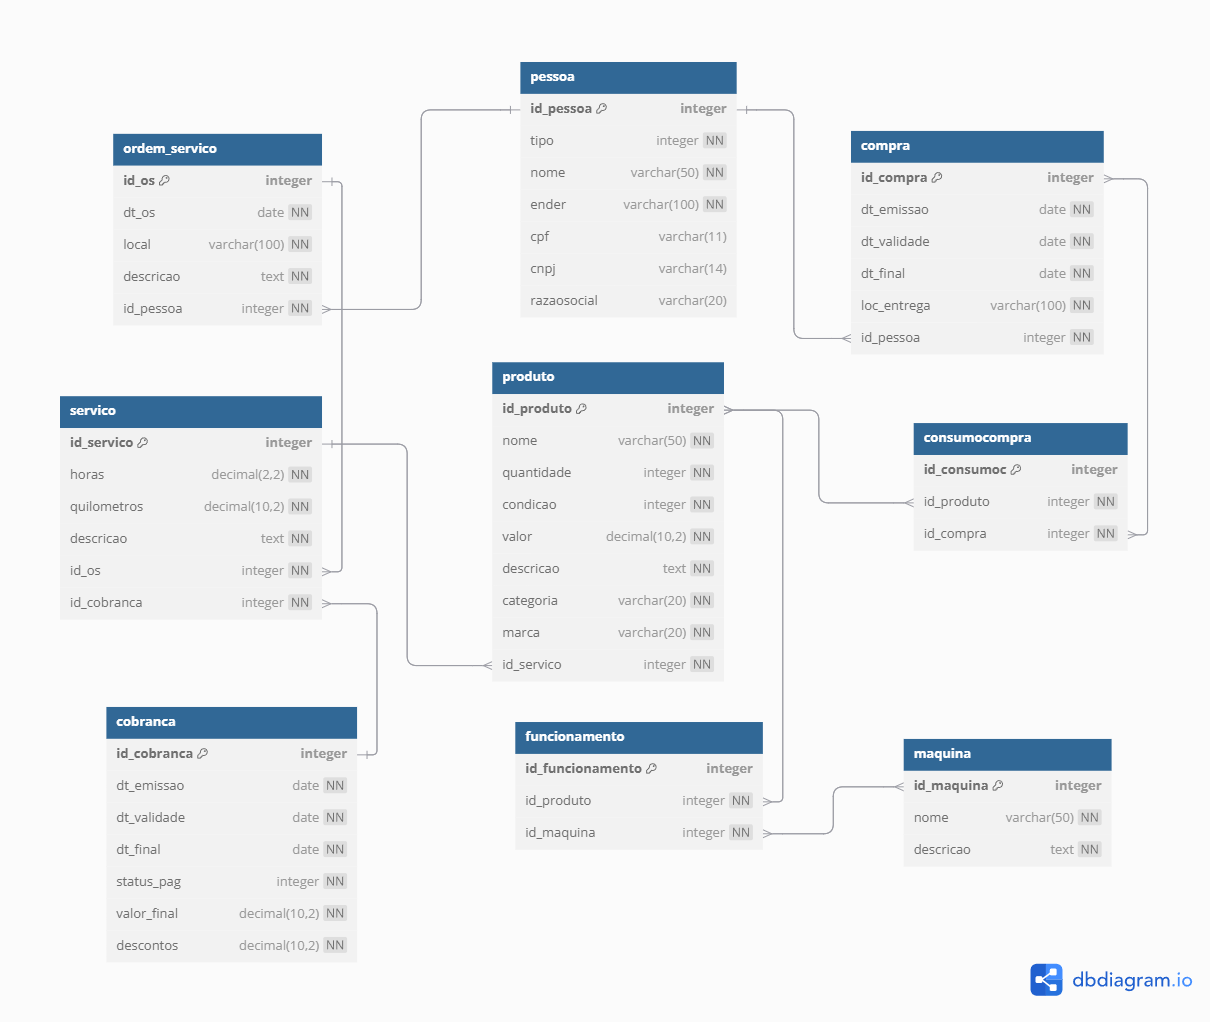
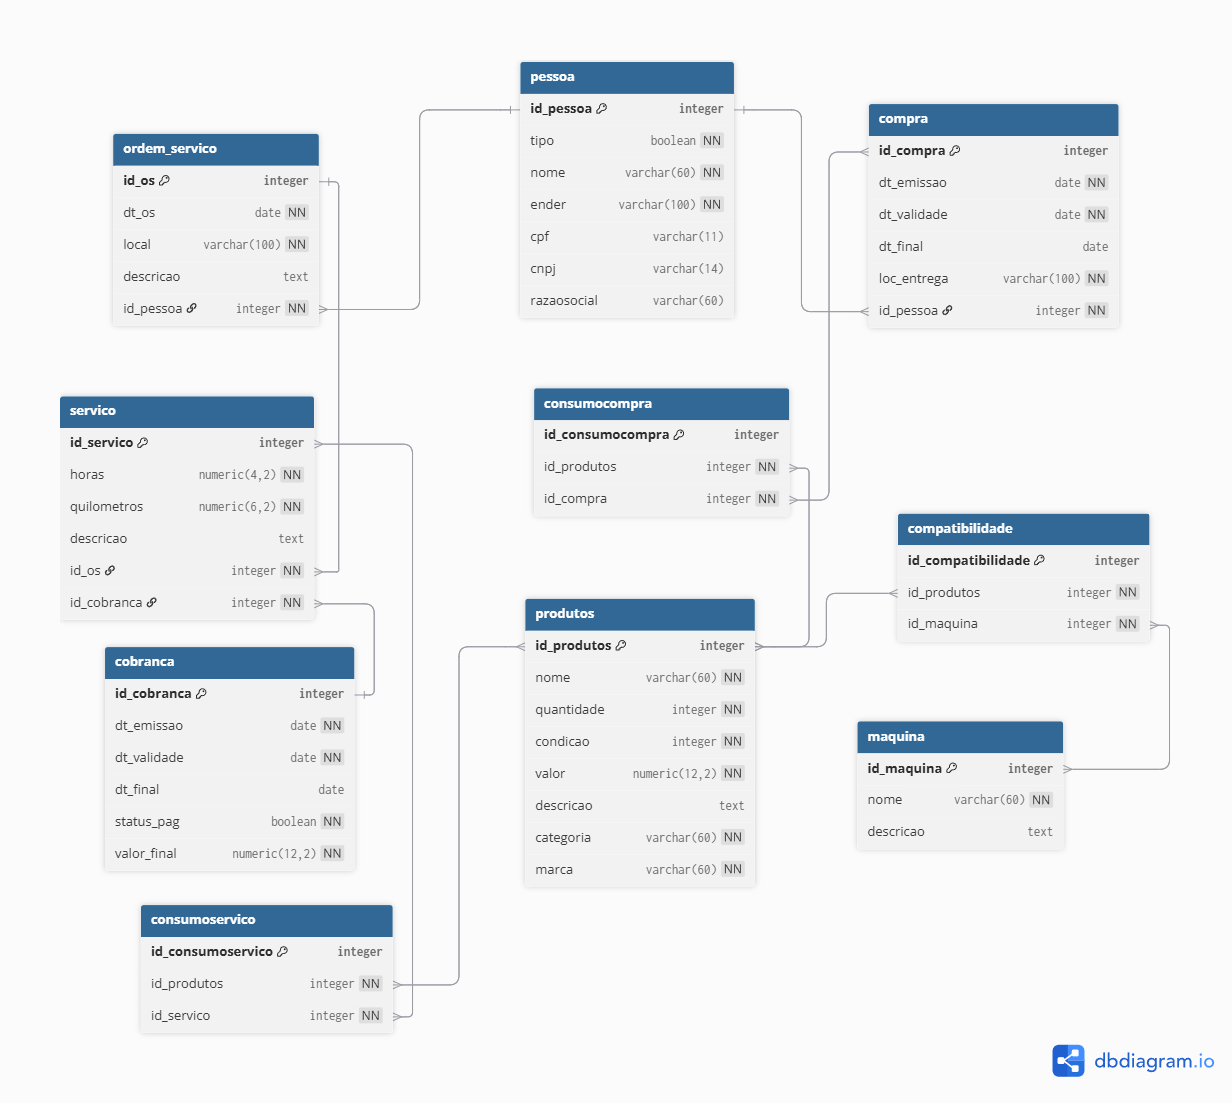
Atualizando imagem do modelo logico

diff --git a/documentos/Logical Model.md b/documentos/Logical Model.md
@@ -140,7 +140,6 @@ Table produtos {
     categoria varchar(60) [not null]
     marca varchar(60) [not null]
 }
-Ref consumoservico: produtos.id_servico > servico.id_servico
 
 Table compatibilidade {               // Compatibilidade (N:N)
     id_compatibilidade integer [pk, increment]
@@ -164,7 +163,7 @@ Table consumoservico {              // ConsumoServico (N:N)
     id_servico integer [not null]
 }
 Ref consumoservico: consumoservico.id_produtos <> produtos.id_produtos
-Ref consumoservico: consumoservico.id_servico <> compra.id_servico
+Ref consumoservico: consumoservico.id_servico <> servico.id_servico
 
 Table maquina {
     id_maquina integer [pk, increment]
